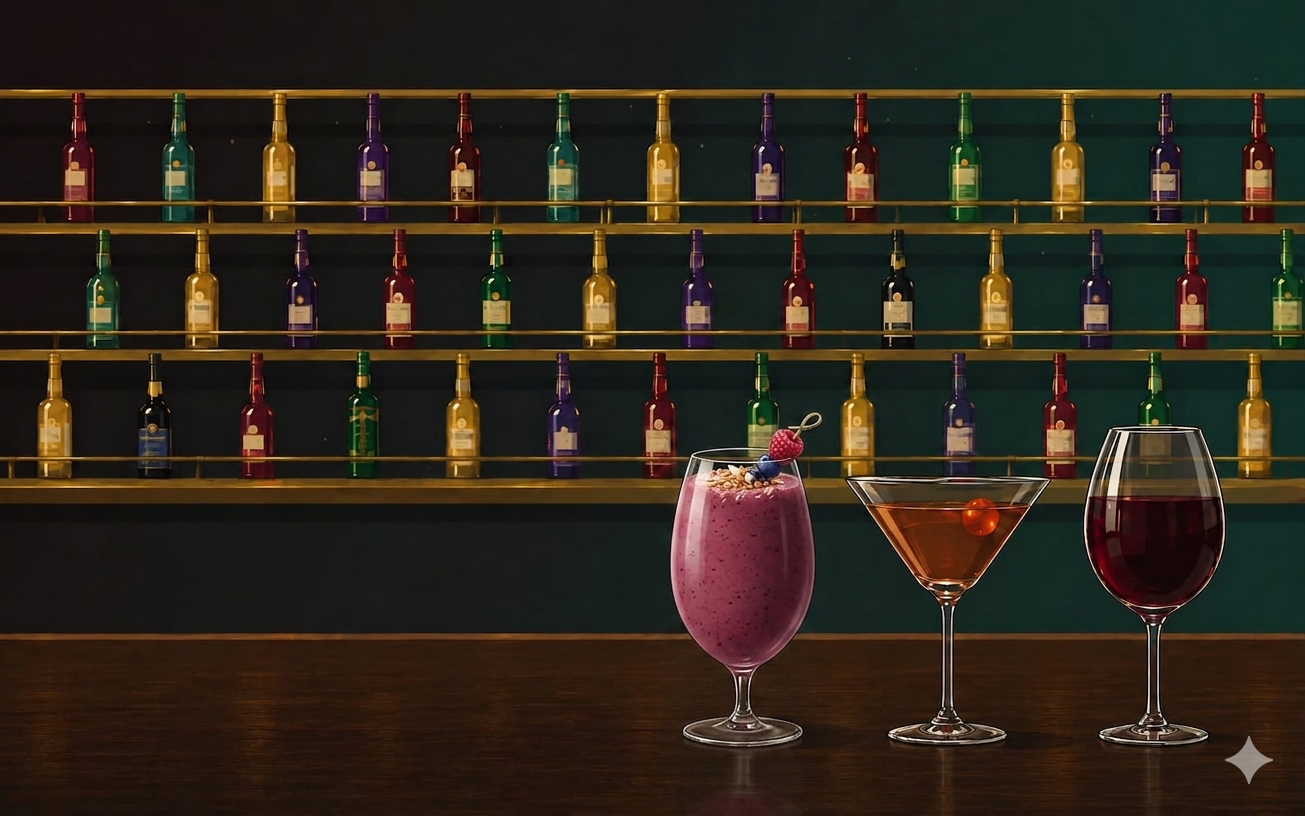
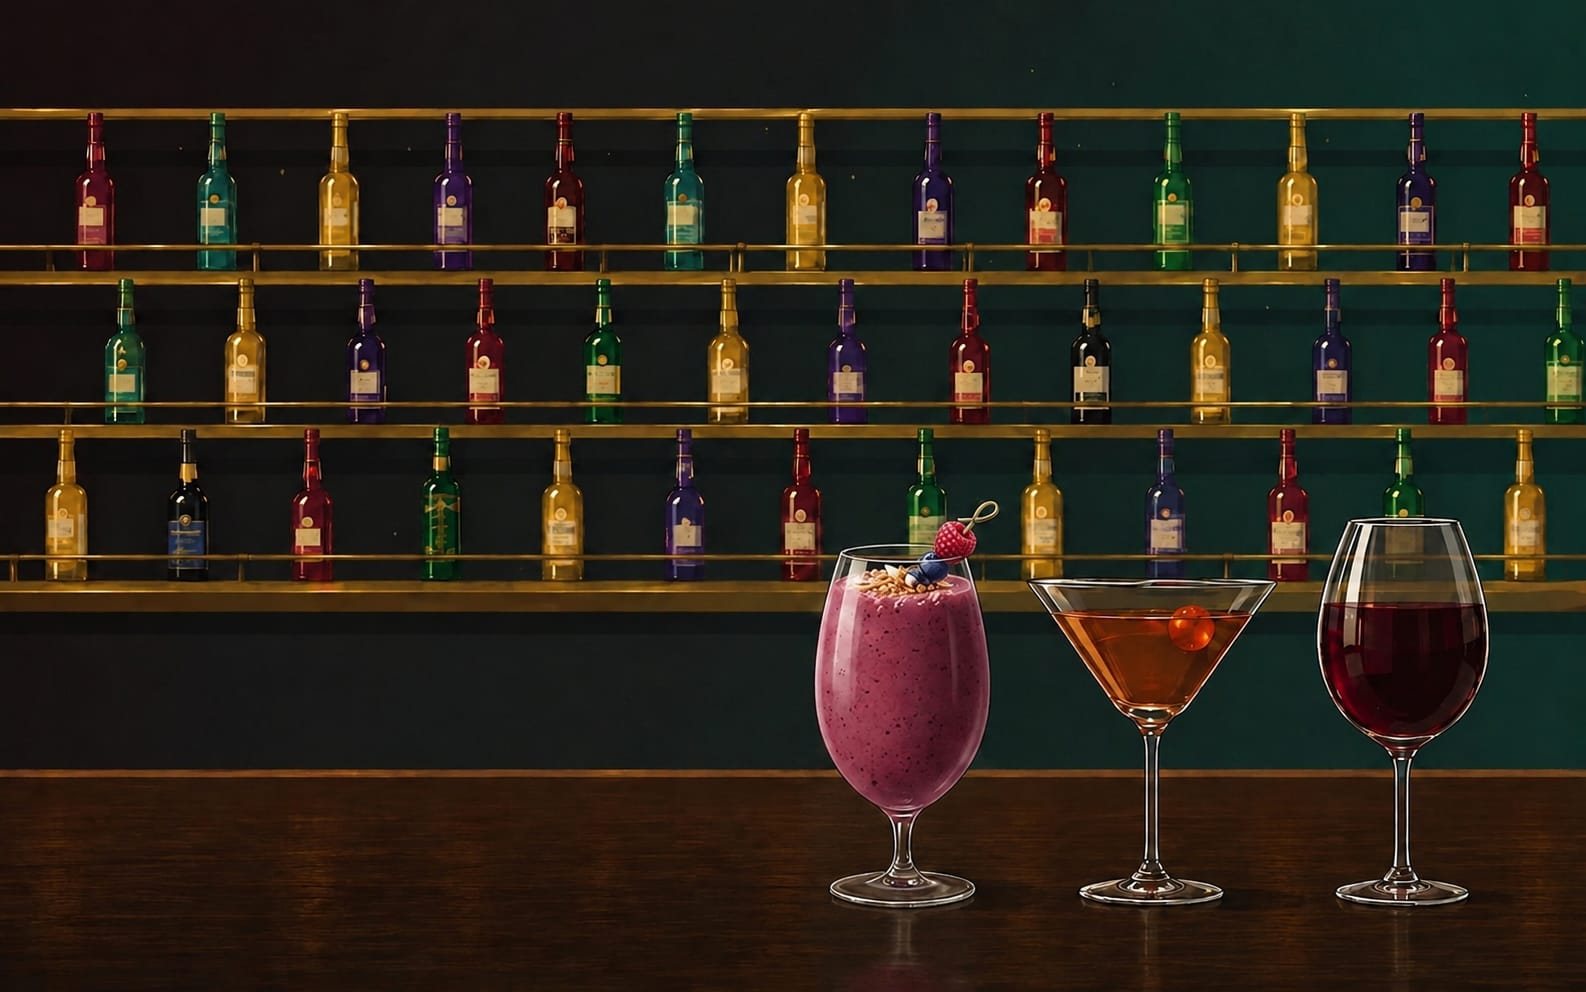
refactor(Hero): comment out the hero title for future adjustments

diff --git a/frontend/src/components/Hero.jsx b/frontend/src/components/Hero.jsx
@@ -68,7 +68,7 @@ export function Hero({ status }) {
       <div className="hero__content" id="top">
         {/* <StatusBadge status={status} /> */}
         <p className="hero__eyebrow">{t('hero.eyebrow')}</p>
-        <h1>L&apos;Angolo di<span className="brand-v">V</span>ino</h1>
+        {/* <h1>L&apos;Angolo di<span className="brand-v">V</span>ino</h1> */}
         <p className="hero__copy">
           {t('hero.copy')}
         </p>
